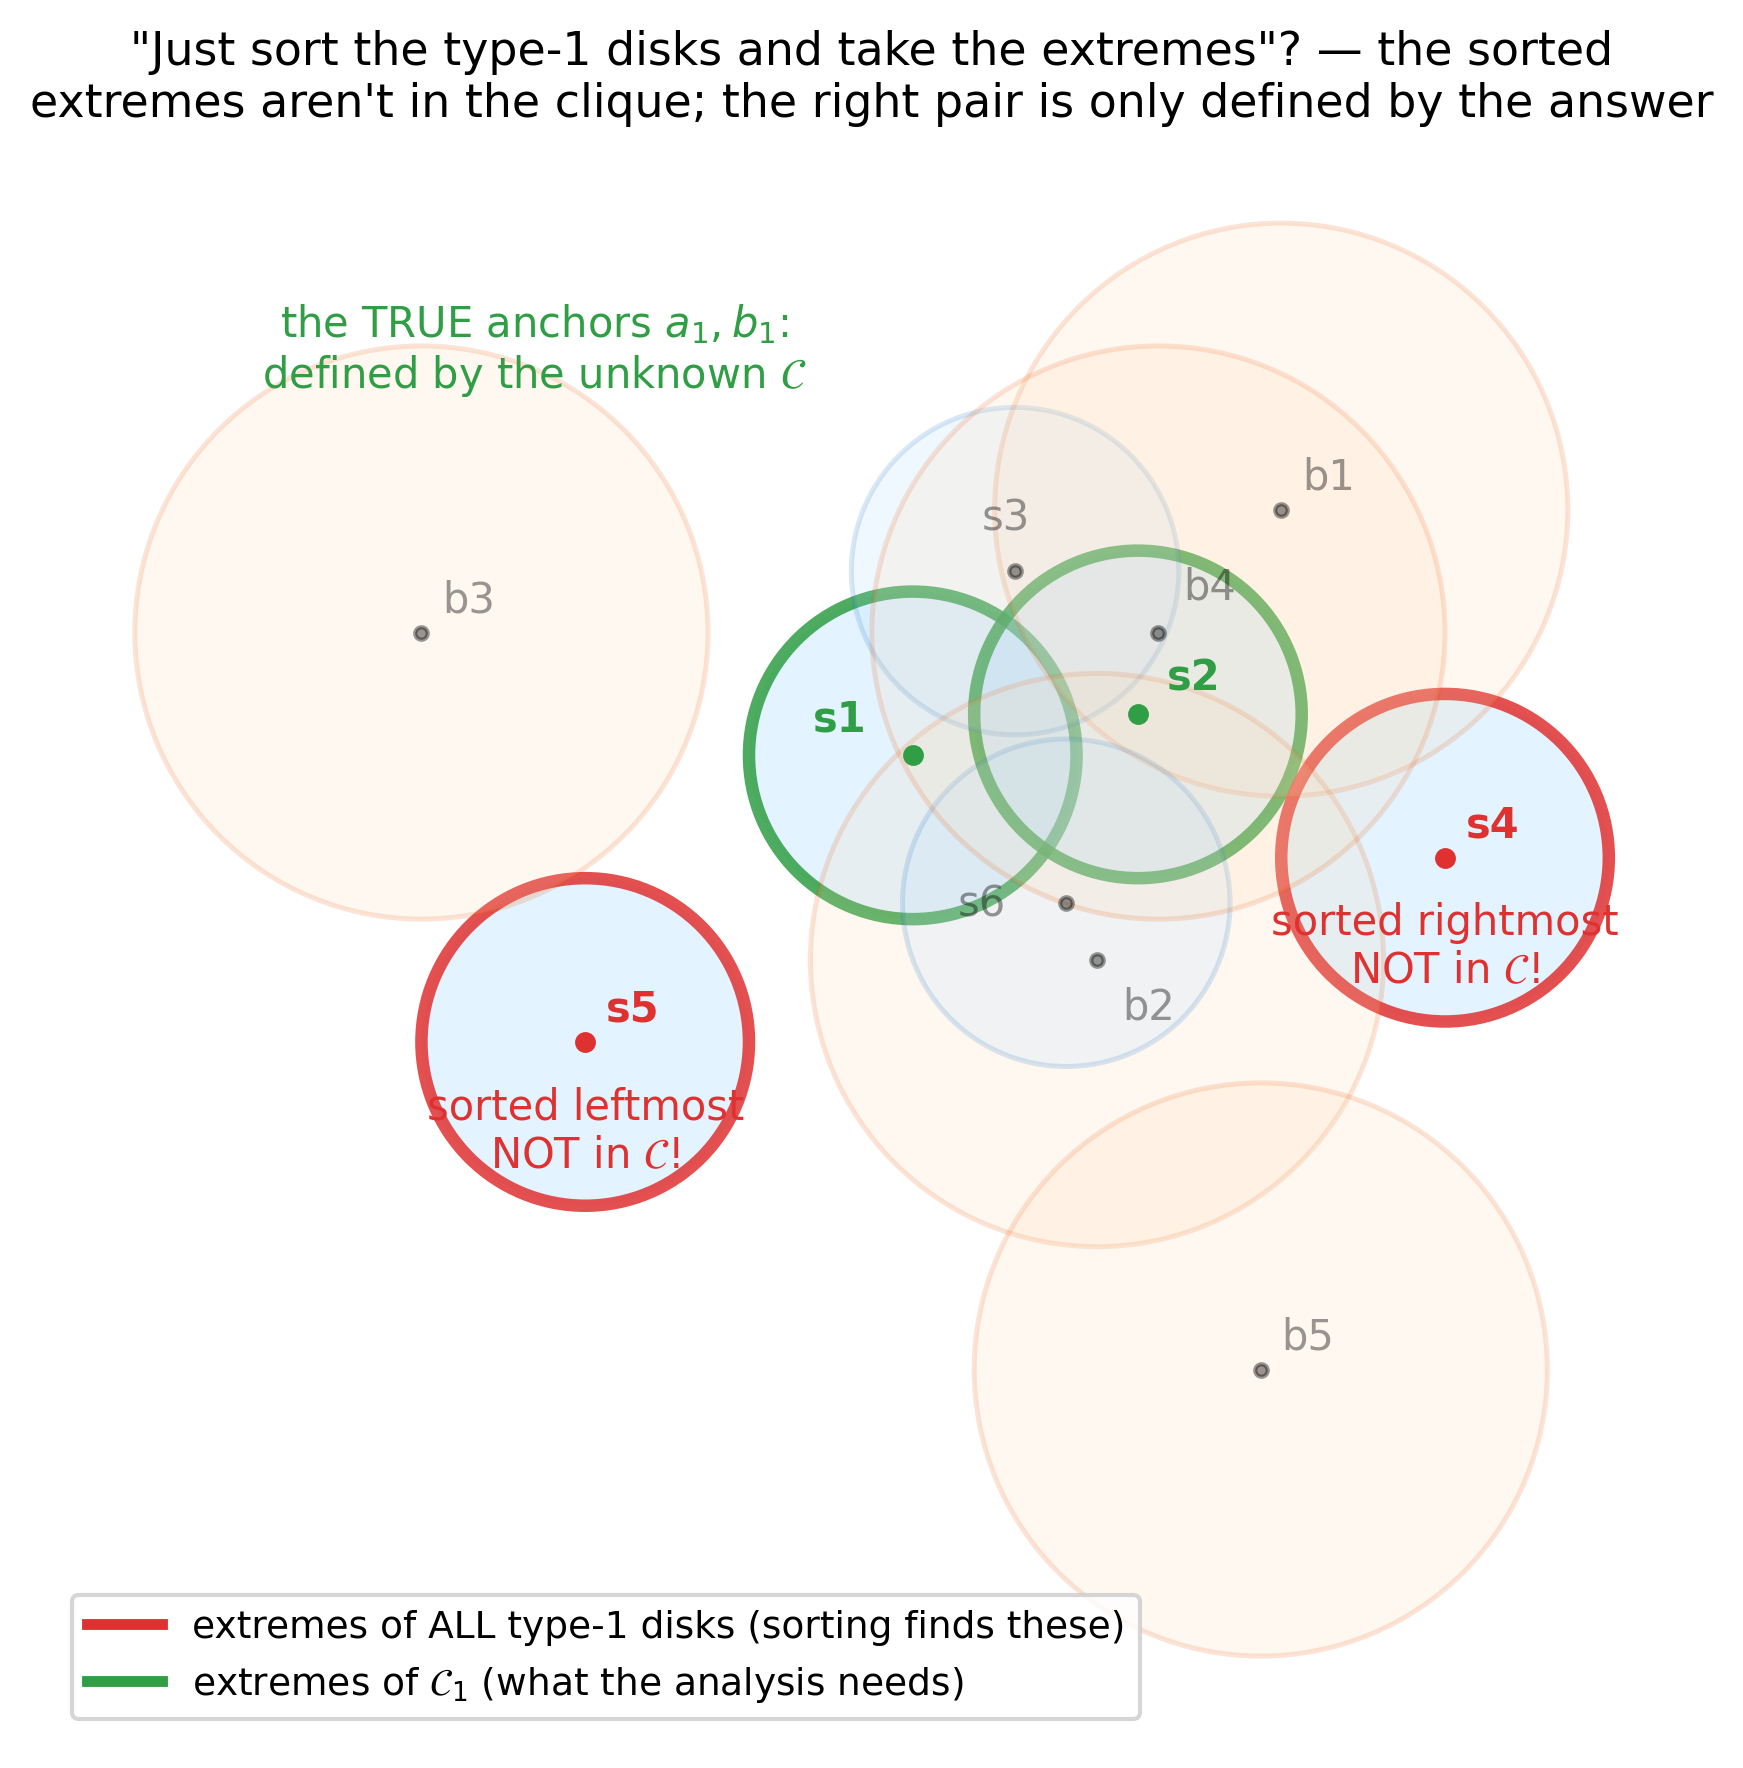
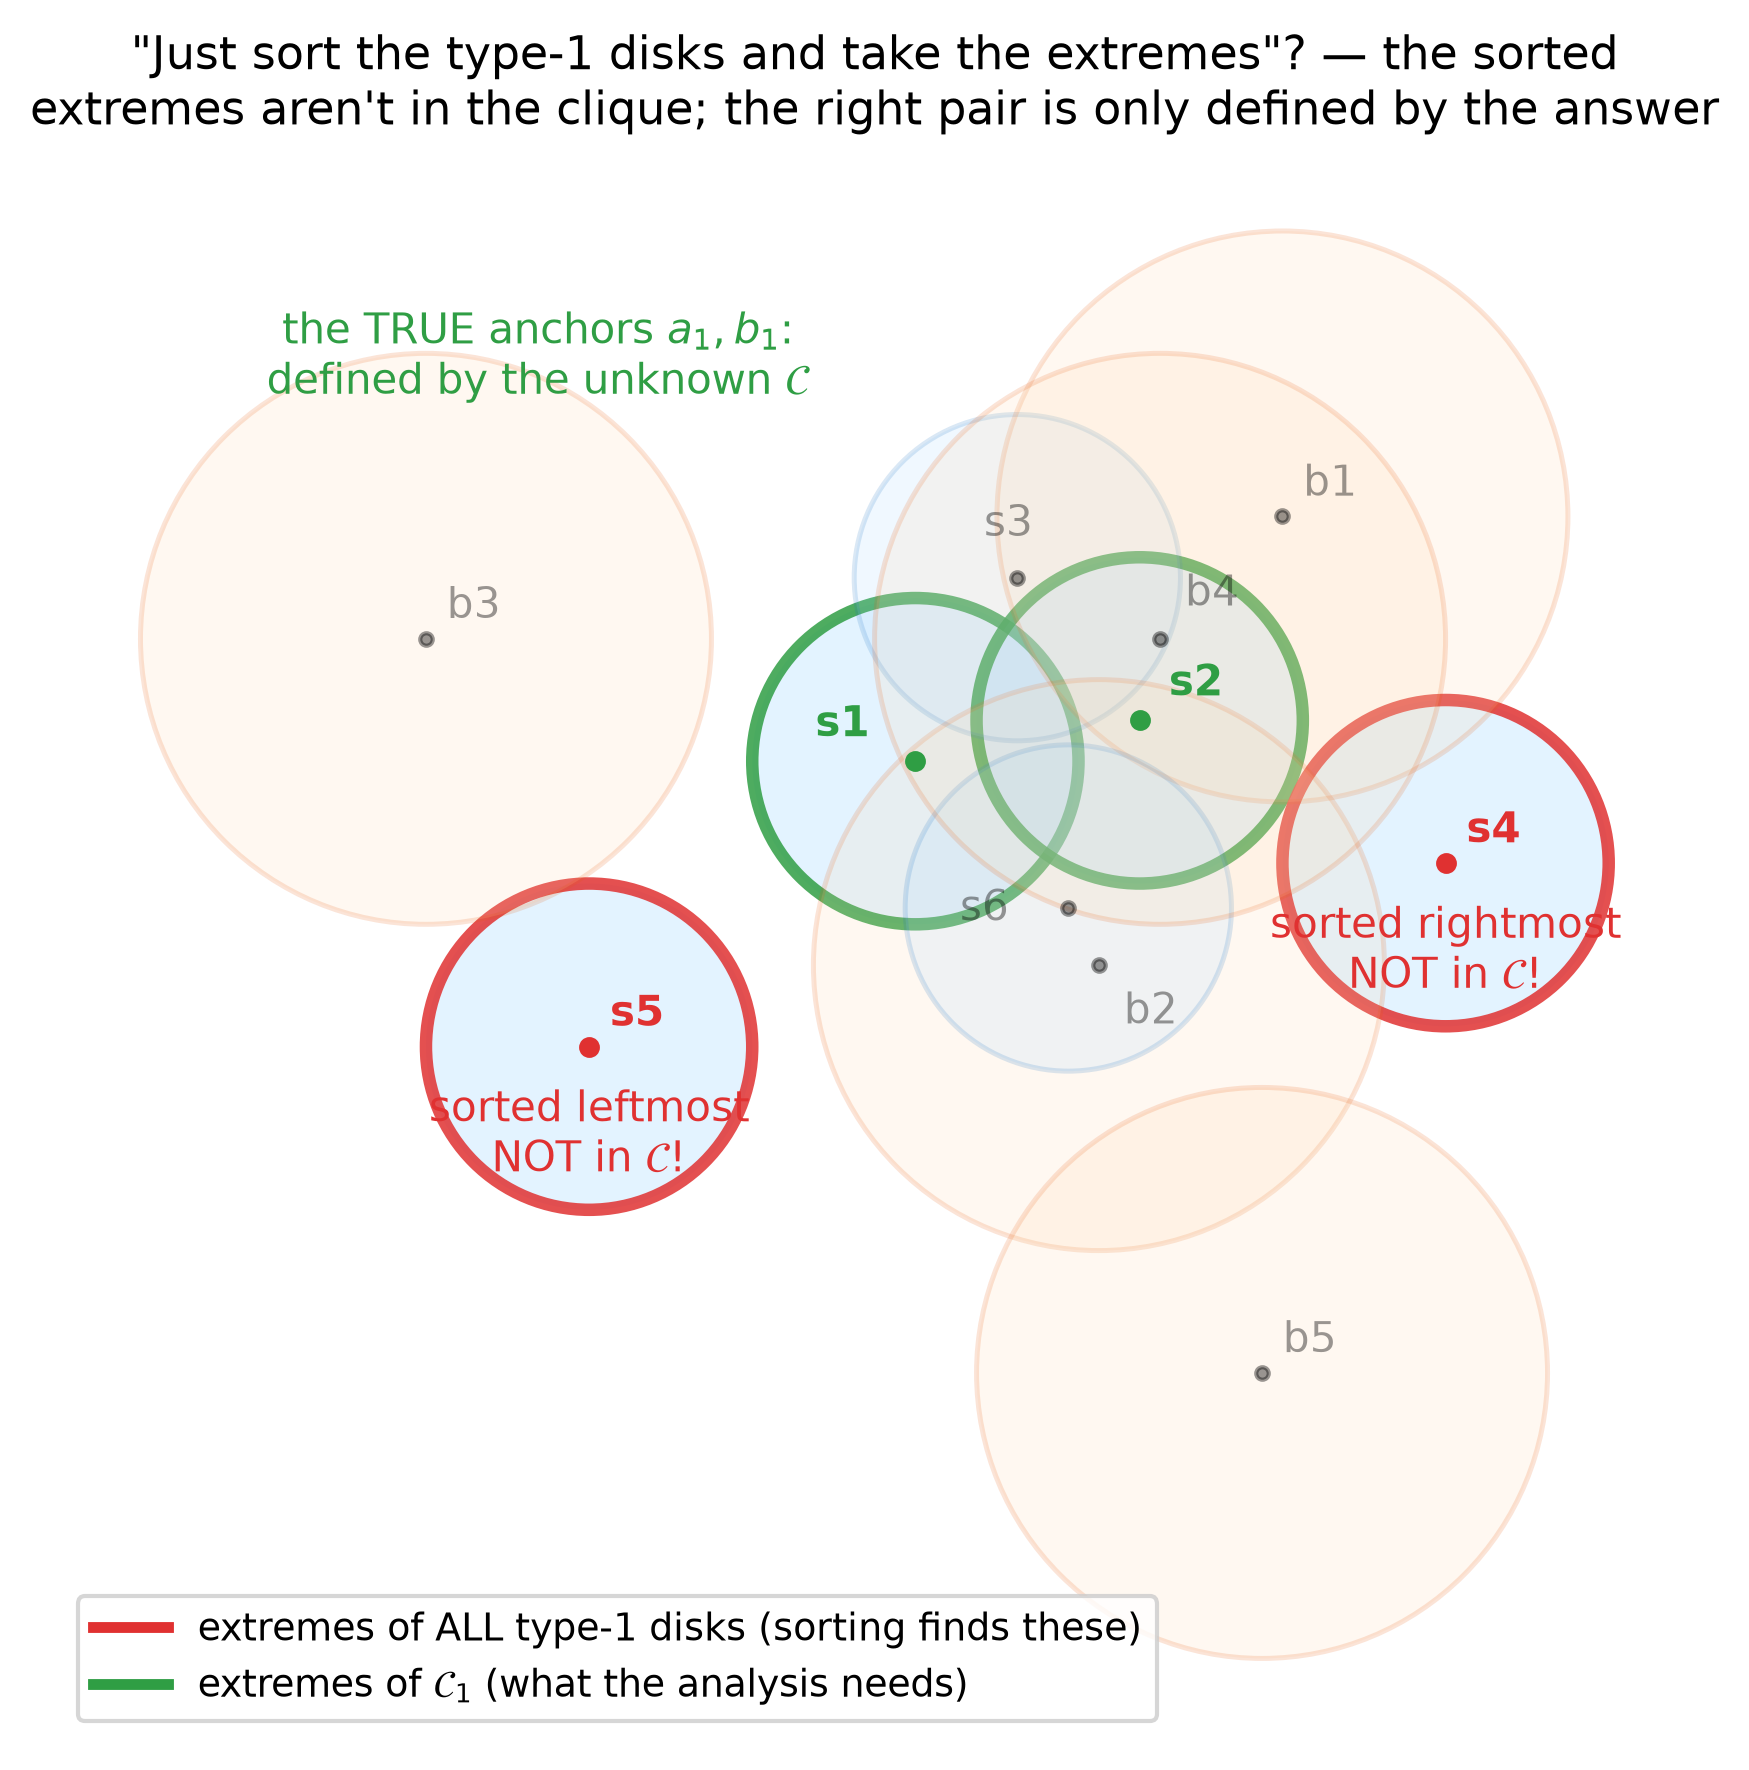
update notebook and notes

diff --git a/cg-notebook.py b/cg-notebook.py
@@ -166,6 +166,7 @@ def _(mo):
 
 @app.cell
 def _(ascene, sf):
+    sort_trap_fig = sf.fig_sort_trap(ascene, save="figs/chapter3/algorithm/sort_trap.png")
     guess_fig = sf.fig_guess(ascene, save="figs/chapter3/algorithm/guess.png")
     slabs_fig = sf.fig_slabs(ascene, save="figs/chapter3/algorithm/slabs.png")
     filter_fig = sf.fig_filter(ascene, save="figs/chapter3/algorithm/filter.png")
@@ -174,7 +175,7 @@ def _(ascene, sf):
         save="figs/chapter3/algorithm/invalid_guess.png",
     )
 
-    guess_fig, invalid_guess_fig, slabs_fig, filter_fig
+    sort_trap_fig, guess_fig, invalid_guess_fig, slabs_fig, filter_fig
     return
 
 

diff --git a/docs/Notes on the Maximum Clique paper.md b/docs/Notes on the Maximum Clique paper.md
@@ -200,6 +200,10 @@ Distinguish 2 scenarios:
 
 Guessing = exhaustive enumeration over all candidates. Wrong guesses are harmless because the construction guarantees every candidate output is a true clique (soundness, via Lemma 3.1 — which never assumes the guess is right), while the one correct guess guarantees the maximum is reached (completeness). The only validation needed is that the guessed set $\Psi$ itself is pairwise intersecting.
 
+##### Why not just sort and take the extremes?
+The tempting shortcut is to sort the type-$i$ disks by $x$ and take the two extremes — no enumeration needed. It fails, and it fails instructively: the sorted extremes of *all* type-1 disks ($s_5$ leftmost, $s_4$ rightmost) are not even members of $\mathcal{C}$. The pair the analysis needs are the extremes **of $\mathcal{C}_1$** — a set defined by the very answer being computed. Knowing them in advance is knowing the solution, so no sorting shortcut can exist, and the $O(n^{2k})$ enumeration is not laziness but the price of that circularity.
+![](../figs/chapter3/algorithm/sort_trap.png)
+
 #### The algorithm in a nutshell
 * We guess the subset of radii types that appear in $\mathcal{C}$ (e.g $r_1, r_5, r_{k-1}$) - total $2^k$ possibilities (power-set of a set of $k$ elements)
 * Compute candidate solutions and - 
